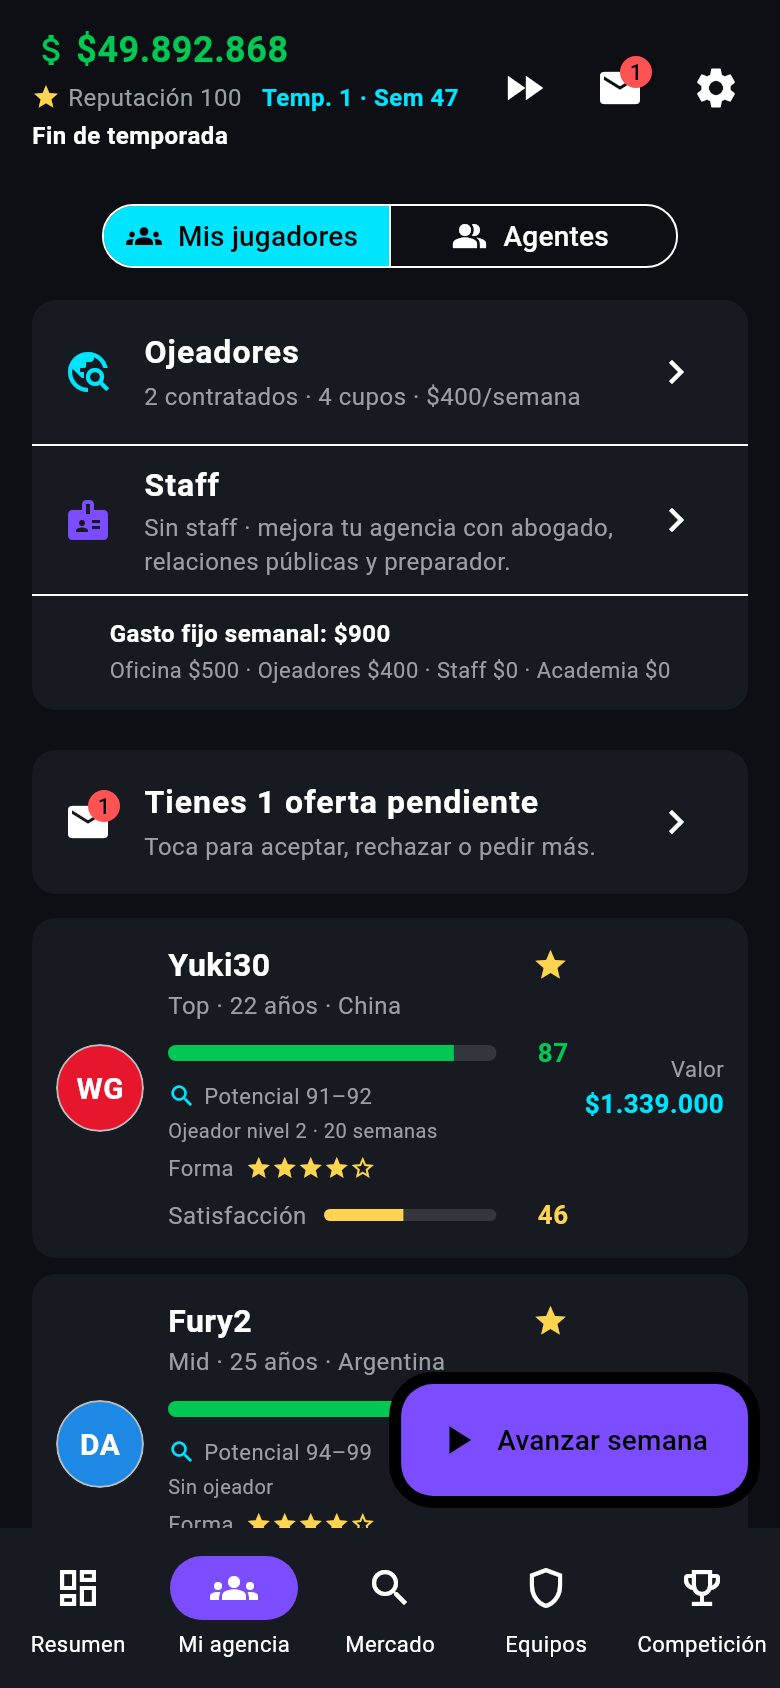
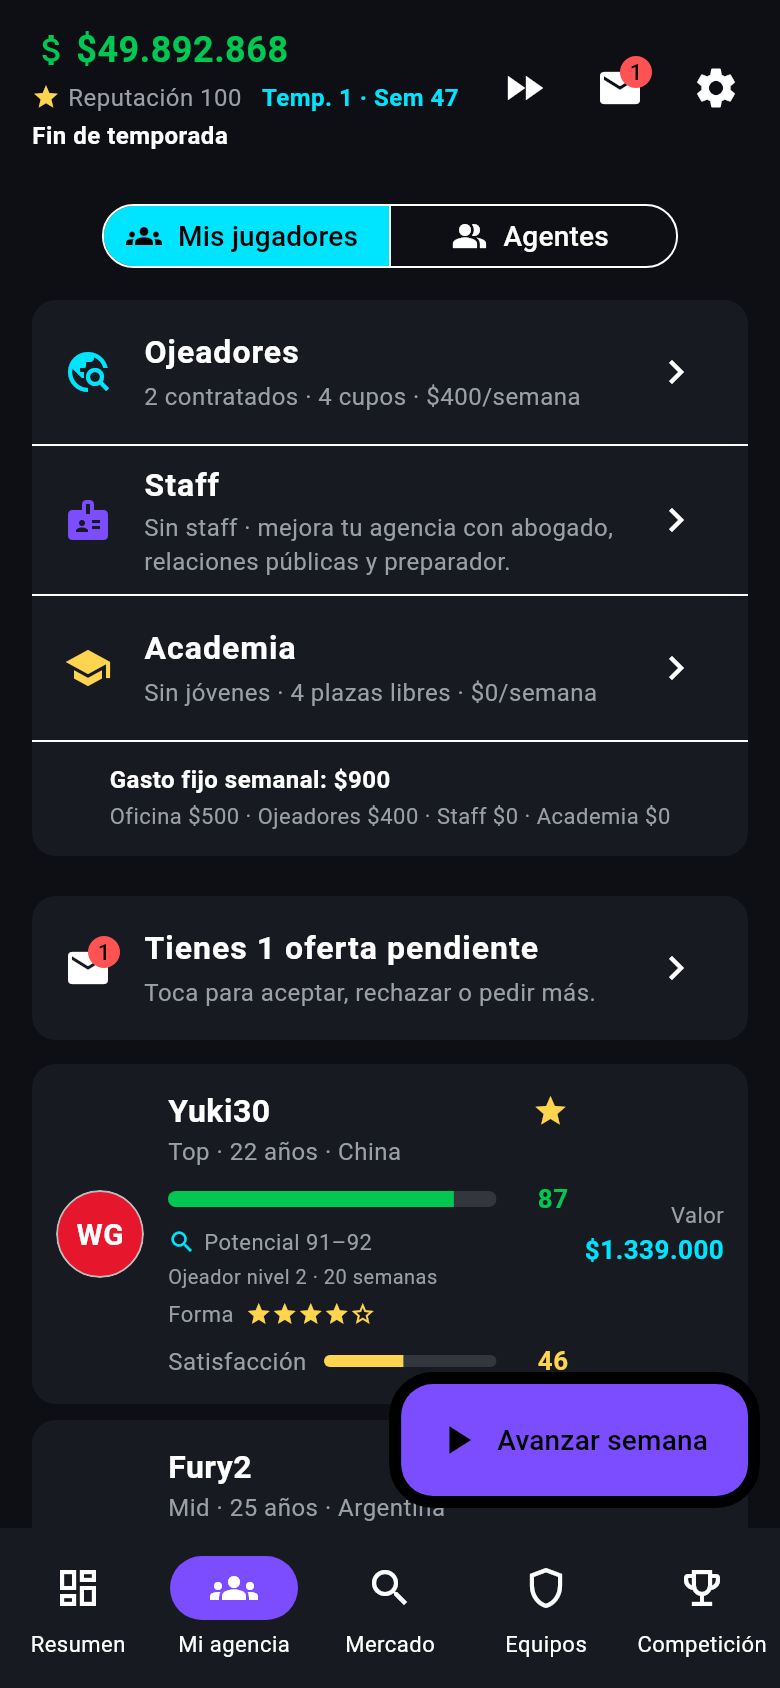
feat(3E): pantalla Academia, accesos y capturas

diff --git a/lib/pantallas/pestana_mis_jugadores.dart b/lib/pantallas/pestana_mis_jugadores.dart
@@ -10,6 +10,7 @@ import '../modelos/staff.dart';
 import '../tema/tema_app.dart';
 import '../widgets/tarjeta_jugador.dart';
 import 'pantalla_agentes.dart';
+import 'pantalla_academia.dart';
 import 'pantalla_detalle_jugador.dart';
 import 'pantalla_ofertas.dart';
 import 'pantalla_ojeadores.dart';
@@ -65,14 +66,15 @@ class _PestanaMisJugadoresState extends State<PestanaMisJugadores> {
     );
   }
 
-  /// Accesos a ojeadores y staff, con la línea del gasto fijo semanal.
+  /// Accesos a ojeadores, staff y academia, con la línea del gasto fijo.
   ///
-  /// El gasto total suma oficina + ojeadores + staff + academia. La academia
-  /// todavía no existe (Parte 3E), así que su hueco vale 0 por ahora.
+  /// El gasto total suma oficina + ojeadores + staff + academia.
   Widget _accesosAgencia(BuildContext context) {
     final motor = widget.motor;
     final cantidadOjeadores = motor.ojeadores.length;
     final resumenStaff = _resumenStaff();
+    final jovenesAcademia = motor.jovenesAcademia.length;
+    final plazasLibres = motor.plazasLibresAcademia;
     return Padding(
       padding: const EdgeInsets.fromLTRB(12, 8, 12, 0),
       child: Card(
@@ -132,6 +134,37 @@ class _PestanaMisJugadoresState extends State<PestanaMisJugadores> {
                 Navigator.of(context).push(
                   MaterialPageRoute(
                     builder: (_) => PantallaStaff(motor: motor),
+                  ),
+                );
+              },
+            ),
+            const Divider(height: 1),
+            ListTile(
+              leading: const Icon(Icons.school, color: AppColores.dorado),
+              title: const Text(
+                'Academia',
+                style: TextStyle(
+                  color: AppColores.textoPrincipal,
+                  fontWeight: FontWeight.bold,
+                ),
+              ),
+              subtitle: Text(
+                jovenesAcademia == 0
+                    ? 'Sin jóvenes · $plazasLibres plazas libres · '
+                          '${formatearDinero(motor.gastoAcademiaSemanal)}/semana'
+                    : '$jovenesAcademia joven${jovenesAcademia == 1 ? '' : 'es'} · '
+                          '$plazasLibres plaza${plazasLibres == 1 ? '' : 's'} libre${plazasLibres == 1 ? '' : 's'} · '
+                          '${formatearDinero(motor.gastoAcademiaSemanal)}/semana',
+                style: const TextStyle(
+                  color: AppColores.textoSecundario,
+                  fontSize: 12,
+                ),
+              ),
+              trailing: const Icon(Icons.chevron_right),
+              onTap: () {
+                Navigator.of(context).push(
+                  MaterialPageRoute(
+                    builder: (_) => PantallaAcademia(motor: motor),
                   ),
                 );
               },
@@ -264,6 +297,7 @@ class _PestanaMisJugadoresState extends State<PestanaMisJugadores> {
           );
 
     if (jugadores.isEmpty) {
+      final tieneAcademia = motor.jovenesAcademia.isNotEmpty;
       return Center(
         child: Padding(
           padding: const EdgeInsets.all(24),
@@ -271,12 +305,15 @@ class _PestanaMisJugadoresState extends State<PestanaMisJugadores> {
             mainAxisSize: MainAxisSize.min,
             children: [
               if (acceso != null) ...[acceso, const SizedBox(height: 16)],
-              _accesosAgencia(context),
               const SizedBox(height: 16),
-              const Text(
-                'Aún no representas a nadie. Ve al Mercado para reclutar tu primer jugador.',
+              Text(
+                tieneAcademia
+                    ? 'Tus jóvenes están entrenando en la Academia. Abre su '
+                          'pantalla desde la tarjeta de arriba.'
+                    : 'Aún no representas a nadie. Ve al Mercado para reclutar '
+                          'tu primer jugador.',
                 textAlign: TextAlign.center,
-                style: TextStyle(color: AppColores.textoSecundario),
+                style: const TextStyle(color: AppColores.textoSecundario),
               ),
             ],
           ),

diff --git a/lib/pantallas/pestana_resumen.dart b/lib/pantallas/pestana_resumen.dart
@@ -9,6 +9,7 @@ import '../widgets/barra_satisfaccion.dart';
 import '../widgets/escudo_equipo.dart';
 import '../widgets/tarjeta_jugador.dart';
 import 'pantalla_detalle_jugador.dart';
+import 'pantalla_academia.dart';
 import 'pantalla_previa_partido.dart';
 import 'pestana_noticias.dart';
 
@@ -87,6 +88,9 @@ class PestanaResumen extends StatelessWidget {
           ),
         ),
         const SizedBox(height: 20),
+
+        // Aviso de jóvenes de la academia listos para colocar (Parte 3E).
+        ..._avisoAcademia(context),
 
         // Salud de la agencia (Parte 3B).
         ..._saludAgencia(),
@@ -174,7 +178,51 @@ class PestanaResumen extends StatelessWidget {
     );
   }
 
-  /// Tarjeta con la satisfacción media y los representados más descontentos.
+  /// Aviso destacado si hay jóvenes que ya cumplen los requisitos de
+  /// colocación. La ventana se indica aparte para no confundir "listo" con
+  /// "el mercado está abierto".
+  List<Widget> _avisoAcademia(BuildContext context) {
+    final listos = motor.jovenesListosParaColocar;
+    if (listos.isEmpty) return const [];
+    final abierta = motor.ventanaAcademiaAbierta;
+    return [
+      Card(
+        child: ListTile(
+          leading: const Icon(Icons.school, color: AppColores.dorado),
+          title: const Text(
+            'Tienes jóvenes listos para colocar',
+            style: TextStyle(
+              color: AppColores.textoPrincipal,
+              fontWeight: FontWeight.bold,
+            ),
+          ),
+          subtitle: Text(
+            abierta
+                ? '${listos.length} joven${listos.length == 1 ? '' : 'es'} '
+                      'puede${listos.length == 1 ? '' : 'n'} fichar por un '
+                      'equipo de 2ª División. Abre la Academia para colocarlo.'
+                : '${listos.length} joven${listos.length == 1 ? '' : 'es'} '
+                      'cumple${listos.length == 1 ? '' : 'n'} los requisitos. '
+                      'El mercado está cerrado; podrás colocarlo en la '
+                      'próxima ventana.',
+            style: const TextStyle(
+              color: AppColores.textoSecundario,
+              fontSize: 12,
+            ),
+          ),
+          trailing: const Icon(Icons.chevron_right),
+          onTap: () {
+            Navigator.of(context).push(
+              MaterialPageRoute(builder: (_) => PantallaAcademia(motor: motor)),
+            );
+          },
+        ),
+      ),
+      const SizedBox(height: 20),
+    ];
+  }
+
+  /// Tarjeta con satisfacción media y los representados más descontentos.
   List<Widget> _saludAgencia() {
     final jugadores = motor.misJugadores;
     if (jugadores.isEmpty) return const [];

diff --git a/test/golden_test.dart b/test/golden_test.dart
@@ -19,6 +19,7 @@ import 'package:esport_agent/modelos/jugador.dart';
 import 'package:esport_agent/modelos/oferta.dart';
 import 'package:esport_agent/modelos/staff.dart';
 import 'package:esport_agent/pantallas/pantalla_ajustes.dart';
+import 'package:esport_agent/pantallas/pantalla_academia.dart';
 import 'package:esport_agent/pantallas/pantalla_ceremonia_premios.dart';
 import 'package:esport_agent/pantallas/pantalla_crear_agente.dart';
 import 'package:esport_agent/pantallas/pantalla_detalle_agente_rival.dart';
@@ -44,6 +45,7 @@ late MotorJuego _conEvento;
 late MotorJuego _conOferta;
 late MotorJuego _conCeremonia;
 late MotorJuego _conStaff;
+late MotorJuego _conAcademia;
 
 void main() {
   TestWidgetsFlutterBinding.ensureInitialized();
@@ -56,6 +58,7 @@ void main() {
     _conEvento = await _prepararEvento();
     _conOferta = await _prepararOferta();
     _conStaff = await _prepararStaff();
+    _conAcademia = await _prepararAcademia();
     // La ceremonia usa la misma partida avanzada: ya tiene premios reales.
     _conCeremonia = _base;
   });
@@ -109,6 +112,10 @@ void main() {
 
   testWidgets('staff', (tester) async {
     await _capturar(tester, PantallaStaff(motor: _conStaff), 'staff');
+  });
+
+  testWidgets('academia', (tester) async {
+    await _capturar(tester, PantallaAcademia(motor: _conAcademia), 'academia');
   });
 
   testWidgets('mercado', (tester) async {
@@ -381,6 +388,33 @@ Future<MotorJuego> _prepararStaff() async {
   await motor.mejorarStaff(rp); // Nivel 3.
 
   await motor.contratarStaff(RolStaff.preparador); // Nivel 1.
+  return motor;
+}
+
+/// Partida con dos jóvenes en la academia para la captura de Academia.
+Future<MotorJuego> _prepararAcademia() async {
+  final motor = await crearPartidaSembrada(dinero: 50000000);
+  motor.agente.reputacion = 100;
+
+  final candidatos = List<Jugador>.of(motor.candidatosAcademia);
+  final primero = candidatos.first;
+  primero.edad = 17;
+  primero.habilidad = 47;
+  primero.potencial = 78;
+  primero.semanasEnAcademia = 6;
+  primero.valorMercado = valorMercadoDe(primero);
+  await motor.reclutarJovenAcademia(primero);
+
+  final segundo = candidatos[1];
+  segundo.edad = 16;
+  segundo.habilidad = 38;
+  segundo.potencial = 72;
+  segundo.semanasEnAcademia = 3;
+  segundo.valorMercado = valorMercadoDe(segundo);
+  await motor.reclutarJovenAcademia(segundo);
+
+  // La ventana de la semana 1 permite mostrar el botón de colocación activo.
+  motor.estado!.semana = 1;
   return motor;
 }
 

diff --git a/test/interfaz_test.dart b/test/interfaz_test.dart
@@ -12,6 +12,7 @@ import 'package:flutter/services.dart';
 import 'package:flutter_test/flutter_test.dart';
 import 'package:shared_preferences/shared_preferences.dart';
 
+import 'package:esport_agent/logica/formulas.dart';
 import 'package:esport_agent/logica/motor_juego.dart';
 import 'package:esport_agent/logica/ojeadores.dart';
 import 'package:esport_agent/modelos/equipo.dart';
@@ -511,7 +512,7 @@ void main() {
     await _pintarPestana(tester, PestanaMisJugadores(motor: motor));
     expect(tester.takeException(), isNull);
     expect(find.textContaining('Gasto fijo semanal:'), findsOneWidget);
-    expect(find.textContaining('Academia'), findsOneWidget);
+    expect(find.textContaining('Academia'), findsWidgets);
     expect(find.text('Staff'), findsOneWidget);
   });
 
@@ -574,6 +575,42 @@ void main() {
     await tester.tap(find.text('Ir a la Academia'));
     await tester.pumpAndSettle();
     expect(find.text('Cantera de la agencia'), findsOneWidget);
+  });
+
+  testWidgets('3E: Mi agencia separa la academia de la cartera normal', (
+    tester,
+  ) async {
+    final joven = motor.candidatosAcademia.first;
+    final resultado = await motor.reclutarJovenAcademia(joven);
+    expect(resultado.ok, isTrue);
+
+    await _pintarPestana(
+      tester,
+      PestanaMisJugadores(motor: motor),
+      tamano: _pantallaPequena,
+    );
+    expect(tester.takeException(), isNull);
+    expect(find.text('Academia'), findsWidgets);
+    expect(find.textContaining('1 joven'), findsOneWidget);
+    expect(find.textContaining('3 plazas libres'), findsOneWidget);
+    expect(find.text(joven.nick), findsNothing);
+  });
+
+  testWidgets('3E: Resumen avisa de los jóvenes listos para colocar', (
+    tester,
+  ) async {
+    final joven = motor.candidatosAcademia.first;
+    await motor.reclutarJovenAcademia(joven);
+    joven.edad = 17;
+    joven.habilidad = 45;
+    joven.potencial = 70;
+    joven.semanasEnAcademia = 4;
+    joven.valorMercado = valorMercadoDe(joven);
+
+    await _pintarPestana(tester, PestanaResumen(motor: motor));
+    expect(tester.takeException(), isNull);
+    expect(find.text('Tienes jóvenes listos para colocar'), findsOneWidget);
+    expect(find.textContaining('2ª División'), findsOneWidget);
   });
 }
 
